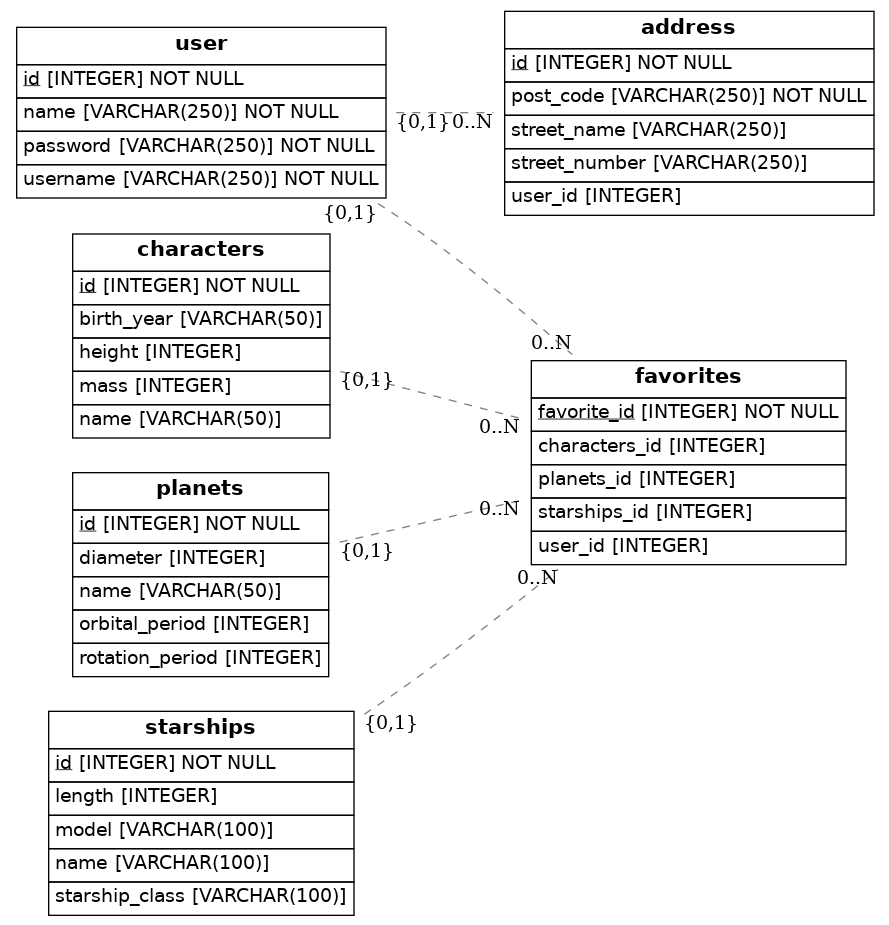
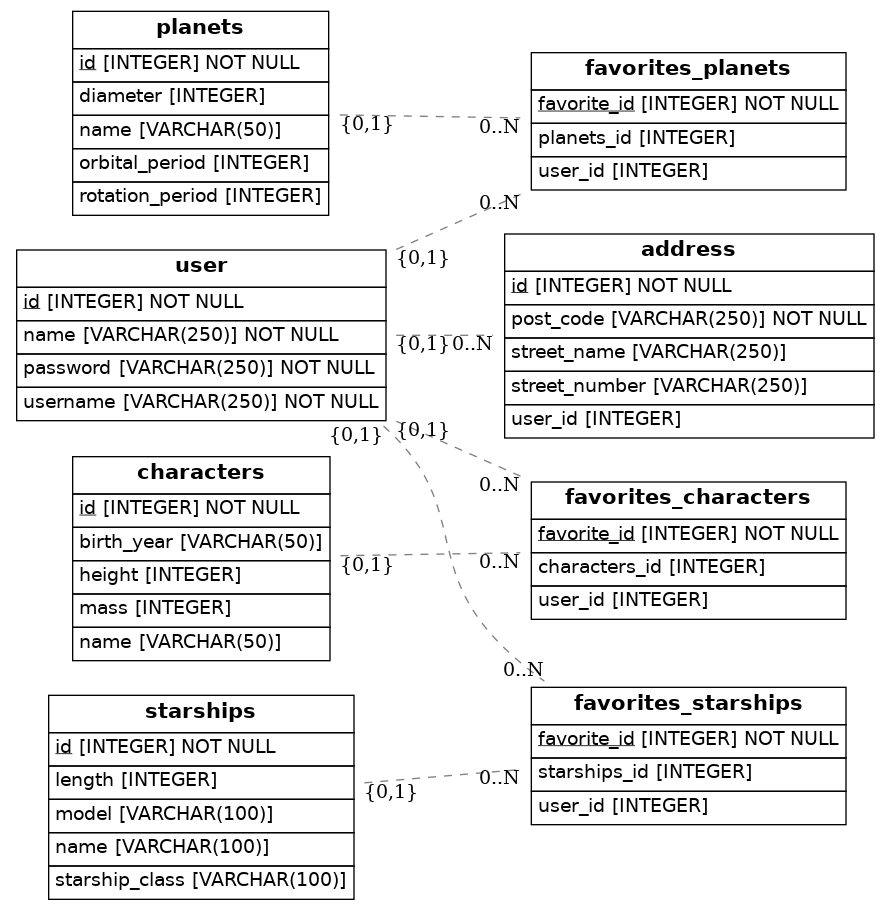
modificada la tabla Favoritos para mejorar el mapeo objeto-relacional de cada elemento (favorites_characters, favorites_planets, favorites_starships

diff --git a/src/models.py b/src/models.py
@@ -51,19 +51,29 @@ class Starships(Base):
     model= Column (String(100))
     length= Column (Integer)
 
-class Favorites(Base):
-    __tablename__ = 'favorites'
+class Favorites_characters(Base):
+    __tablename__ = 'favorites_characters'
     favorite_id = Column(Integer, primary_key=True)
     user_id = Column(Integer, ForeignKey('user.id'))
     characters_id = Column(Integer, ForeignKey('characters.id'))
-    planets_id = Column(Integer, ForeignKey('planets.id'))
-    starships_id =Column(Integer, ForeignKey('starships'))  
     user = relationship(User)
     characters = relationship(Characters)
+    
+class Favorites_planets(Base):
+    __tablename__ = 'favorites_planets'
+    favorite_id = Column(Integer, primary_key=True)
+    user_id = Column(Integer, ForeignKey('user.id'))    
+    planets_id = Column(Integer, ForeignKey('planets.id'))
+    user = relationship(User)
     planets = relationship(Planets)
-    starships = relationship(Starships)
-       
 
+class Favorites_starships(Base):
+    __tablename__ = 'favorites_starships'
+    favorite_id = Column(Integer, primary_key=True)
+    user_id = Column(Integer, ForeignKey('user.id')) 
+    starships_id =Column(Integer, ForeignKey('starships.id'))  
+    user = relationship(User)
+    starships = relationship(Starships)    
 
     def to_dict(self):
         return {}
